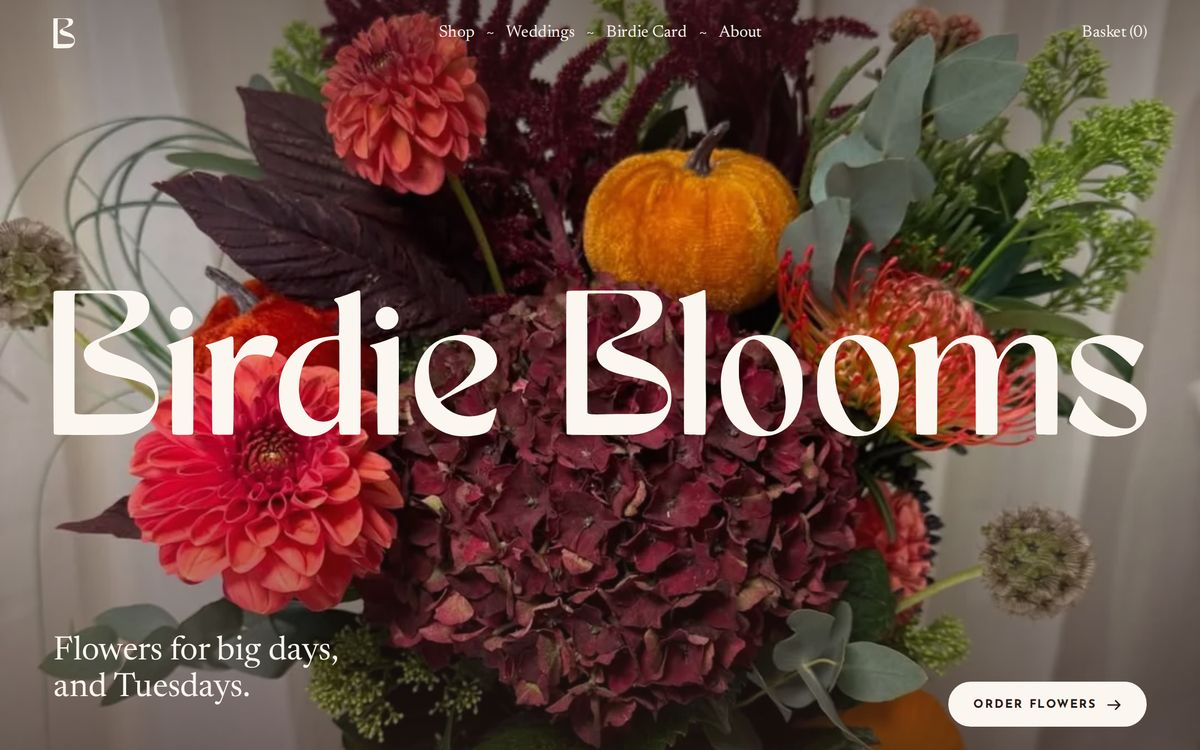
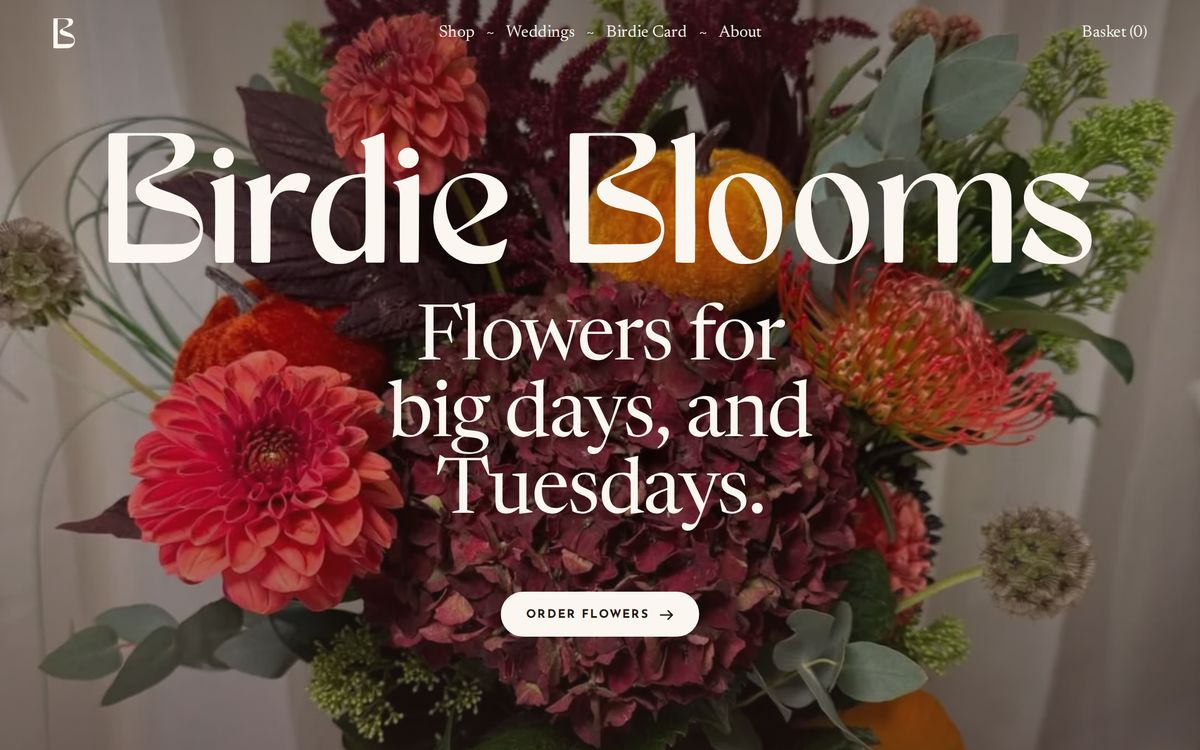
Studio: big centred strapline, promise band removed
'Flowers for big days, and Tuesdays.' now sits large and centred under the
logo with the order button below it. The dark promise band under the hero
is gone.

Claude-Session: https://claude.ai/code/session_019PSRfq3TQ4o54oty8jBXVF

diff --git a/directions/studio.html b/directions/studio.html
@@ -74,22 +74,17 @@
   .bar-basket { justify-self: end; text-decoration: none; font-size: 20px; }
 
   /* ---- hero: her flowers, her logo, big ------------------------------------------------ */
-  .hero { position: relative; isolation: isolate; height: 100vh; min-height: 620px; max-height: 1100px; overflow: hidden; color: var(--paper); }
+  .hero { position: relative; isolation: isolate; display: grid; grid-template-rows: auto 1fr; height: 100vh; min-height: 640px; max-height: 1100px; overflow: hidden; color: var(--paper); }
   .hero-img { position: absolute; inset: 0; width: 100%; height: 100%; object-fit: cover; object-position: 50% 42%; z-index: -2; }
-  .hero-shade { position: absolute; inset: 0; z-index: -1; background: linear-gradient(180deg, rgba(43, 26, 22, 0.42) 0%, rgba(43, 26, 22, 0.08) 30%, rgba(43, 26, 22, 0.1) 60%, rgba(43, 26, 22, 0.55) 100%); }
+  .hero-shade { position: absolute; inset: 0; z-index: -1; background: linear-gradient(180deg, rgba(43, 26, 22, 0.45) 0%, rgba(43, 26, 22, 0.25) 35%, rgba(43, 26, 22, 0.3) 65%, rgba(43, 26, 22, 0.5) 100%); }
   .hero-top { display: grid; grid-template-columns: 1fr auto 1fr; align-items: center; padding: 22px var(--gut); font-size: 20px; }
   .hero-top > a:last-child { justify-self: end; }
   .hero-b .mono { width: 26px; color: var(--paper); }
-  .hero-mark { position: absolute; left: var(--gut); right: var(--gut); top: 50%; transform: translateY(-58%); color: var(--paper); }
-  .hero-foot { position: absolute; left: var(--gut); right: var(--gut); bottom: clamp(28px, 4vw, 52px); display: flex; justify-content: space-between; align-items: end; gap: 20px; flex-wrap: wrap; }
-  .hero-line { font-size: clamp(26px, 2.8vw, 40px); line-height: 1.1; max-width: 16ch; }
-  html.m .hero-mark .wm, html.m .hero-line, html.m .hero-foot .btn, html.m .hero-top { visibility: hidden; }
+  .hero-center { display: flex; flex-direction: column; align-items: center; justify-content: center; gap: clamp(26px, 3.4vw, 46px); padding: 0 var(--gut) clamp(56px, 9vh, 110px); text-align: center; }
+  .hero-mark { width: min(1180px, 100%); color: var(--paper); }
+  .hero-line { max-width: 13ch; font-size: clamp(44px, 6.4vw, 100px); line-height: 1; letter-spacing: -0.02em; text-wrap: balance; text-shadow: 0 2px 30px rgba(43, 26, 22, 0.35); }
+  html.m .hero-mark .wm, html.m .hero-line, html.m .hero-center .btn, html.m .hero-top { visibility: hidden; }
 
-  /* ---- promise band ------------------------------------------------------------------- */
-  .promise { background: var(--ink); color: var(--paper); }
-  .promise ul { list-style: none; display: flex; justify-content: space-between; flex-wrap: wrap; gap: 14px 28px; margin: 0; padding: 20px var(--gut) 17px; }
-  .promise li { display: flex; align-items: center; gap: 12px; }
-  .promise .mono { width: 11px; color: var(--bloom); margin-top: -3px; }
 
   /* ---- solid colour blocks ---------------------------------------------------------- */
   .block-pastel { background: var(--pastel); }
@@ -222,8 +217,7 @@
     .bar-nav, .hero-top nav { display: none; }
     .bar-logo { width: 140px; }
     .hero-top { grid-template-columns: 1fr auto; }
-    .hero-mark { top: 46%; }
-    .promise ul { display: grid; grid-template-columns: 1fr 1fr; font-size: 11px; }
+    .hero-center { gap: 24px; }
     .two-cols, .products, .loyalty, .about, .letters, .foot-cols { grid-template-columns: 1fr; }
     .col-low { margin-top: 40px; }
     .collage { width: 78%; margin-top: 18px; }
@@ -257,21 +251,13 @@
     <nav aria-label="Primary"><a href="#shop">Shop</a><span>~</span><a href="#weddings">Weddings</a><span>~</span><a href="#card">Birdie Card</a><span>~</span><a href="#about">About</a></nav>
     <a href="#shop">Basket (<span data-count>0</span>)</a>
   </header>
-  <h1 class="hero-mark"><svg class="wm wm-hero" viewBox="7 8 6174 828" role="img" aria-label="Birdie Blooms"><path class="g" d="M 44,12.3 C 8.2,13.5 9,13 8.3,36 C 6.6,99.7 7.6,813.9 9.5,817.5 C 13.8,826 10.2,825.5 71.8,826.4 C 157.4,827.7 377.1,826.5 394.7,824.7 C 485.9,815.1 547.4,775.7 582,704.6 C 618.4,629.8 602.6,531.4 544.5,471.2 C 508.9,434.2 467.8,411.5 382.2,381.5 C 336.2,365.4 325.8,361.5 313.8,356.1 C 275.1,338.6 255.6,314.9 268.1,300.6 C 273.4,294.6 294,285.3 322.5,276.2 C 336.3,271.9 358.3,264.8 371.5,260.6 C 494.7,221.1 542,182.6 549,116 C 555.6,53.7 516.4,16.1 441,12.1 C 417.9,10.9 80.8,11.1 44,12.3 M 317.7,28.1 C 341.4,30 361.4,34.9 377.5,42.6 C 448.6,76.9 441.9,178.6 364.9,230.7 C 345.2,244.1 300,268.1 277.2,277.2 C 239,292.5 204.6,314.5 192.5,331.5 C 165.8,368.9 179.3,418.4 224.4,448.2 C 257.9,470.5 289.5,480.2 406.5,504.6 C 540.7,532.5 581.4,559 581.5,618.6 C 581.5,658.8 556.6,685.8 505.9,700.4 C 480.3,707.9 459.2,709.1 356,709.1 C 312.8,709.1 252.1,709.6 221,710.2 C 145.6,711.6 133.7,710.6 128.3,702.4 C 126.6,699.8 126.5,683.2 126.5,368.1 C 126.5,1.2 125.9,32.4 133,28.9 C 137.1,26.8 293.4,26.2 317.7,28.1"/><path class="g" d="M 769,275.6 C 750.2,284 731.4,290.9 690,304.7 C 645.3,319.5 642.3,321.4 651.6,329.4 C 667.2,342.7 671.3,351.5 675.6,381 C 677.9,396.6 678.9,577.7 677,638 C 675.6,683 677.1,807.1 679.1,814.5 C 682.2,825.8 684.3,826.2 738,826.2 C 791.7,826.2 793.8,825.7 796.9,814.5 C 798.5,808.7 798.4,285.7 796.9,279.4 C 794.1,268.4 787.3,267.5 769,275.6"/><path class="g" d="M 714.4,105 C 674.3,115.5 654.8,159.8 673.5,197.7 C 694.8,240.8 760.2,243.6 785.2,202.5 C 815.6,152.5 770.4,90.3 714.4,105"/><path class="g" d="M 1189,263.7 C 1123.8,270.7 1076,307.4 1041,377 C 1033.1,392.8 1030,396 1026.8,392 C 1025.1,389.9 1025,385.9 1025,336.8 C 1025,279.3 1024.8,276.7 1019.8,272.5 C 1015.3,268.7 1011,269.2 997.8,274.9 C 971.1,286.6 900.1,311 881.3,315 C 863.6,318.7 862,323.8 875.9,331.9 C 888.2,339.1 894.4,349.5 898.9,370.5 C 902.1,385.6 902.3,392.7 903,601 C 903.8,826.1 903.5,815.6 908.9,821.1 C 913.7,825.9 916.4,826.1 966.7,825.8 C 1018.4,825.5 1018.1,825.5 1021.5,819.1 C 1023.7,814.8 1025,749 1025.4,618.5 C 1025.8,494.9 1026.3,485.9 1034.5,457.5 C 1044.1,424.3 1068.6,394.2 1096.4,381.5 C 1125.4,368.2 1175.9,368.6 1216.5,382.5 C 1238.5,390.1 1239.9,389.5 1250.4,367.8 C 1276.8,313.5 1280.3,294.3 1266.1,280.1 C 1254.6,268.6 1217.3,260.6 1189,263.7"/><path class="g" d="M 1726.3,11 C 1724.6,11.4 1718.7,13.6 1713.3,15.8 C 1682,29 1625,49 1608.7,52.5 C 1590.8,56.4 1587.7,64.2 1600.3,73.9 C 1619.6,88.4 1622.3,104.9 1621.3,199.2 C 1620.5,274.1 1622.7,266 1602.9,267.2 C 1524.9,271.9 1460.6,289.5 1417,318.1 C 1307.6,389.6 1262.1,512.2 1287.6,666.9 C 1301.5,751.1 1351.8,815.3 1415,829.4 C 1486.4,845.3 1556.9,821.3 1600.3,766.5 C 1618.6,743.3 1619.8,744.4 1621.7,784.3 C 1623.2,816.9 1623.9,820.8 1629.3,823.8 C 1632.2,825.3 1637,825.5 1682.7,825.5 C 1739.4,825.5 1736.2,825.9 1740.5,817.4 C 1744.4,809.7 1743.7,23.5 1739.7,16.3 C 1737.1,11.5 1732.3,9.6 1726.3,11 M 1617.1,290.3 C 1622.8,294.1 1622.5,283.7 1622.5,478 C 1622.5,690.7 1622.6,687.4 1612,709.5 C 1586.5,762.6 1491.4,766.7 1446.7,716.7 C 1393.9,657.7 1380.4,572.4 1407.1,466.5 C 1428.4,382.1 1483.2,314.1 1544.5,296.2 C 1569.8,288.8 1610,285.5 1617.1,290.3"/><path class="g" d="M 1936.5,272.8 C 1907.9,286.3 1832.3,311.8 1812,314.9 C 1792,317.9 1789.6,324.9 1806.3,331.5 C 1819.8,336.9 1827.2,347 1832.3,367 C 1837,385.3 1837.5,395.4 1837.1,475.5 C 1836.1,677.9 1837,812.8 1839.4,818.4 C 1842.4,825.6 1841.4,825.5 1898,825.5 C 1953.7,825.5 1951.5,825.7 1955.7,819.3 C 1957.5,816.6 1959.2,288.9 1957.5,279.3 C 1955.8,270 1947.8,267.5 1936.5,272.8"/><path class="g" d="M 1882,104 C 1843.7,110 1820.1,144.1 1828.5,181.4 C 1841.6,240.5 1922.4,249.7 1949.9,195.3 C 1972.5,150.3 1932.2,96.1 1882,104"/><path class="g" d="M 2294,262.7 C 2149.6,276.1 2062.7,366.3 2049,517 C 2035.3,668.5 2118.9,792.5 2258.1,826.9 C 2313.2,840.5 2404.6,834.2 2449.4,813.5 C 2474.6,801.9 2481.8,788.8 2502.6,716.5 C 2515.2,672.4 2513.3,668.8 2485.7,685.3 C 2390.1,742.4 2281.2,732.2 2206.9,659 C 2187.2,639.6 2186.6,640.4 2241,610.7 C 2265.2,597.5 2372.2,543.7 2383.6,538.9 C 2438.2,516.2 2479,488.5 2497.1,461.8 C 2529,414.8 2511.4,347.1 2456.6,306.1 C 2416.1,275.8 2348,257.6 2294,262.7 M 2293.5,294 C 2349.9,306.1 2384.4,341.8 2390.2,394.1 C 2397.2,457.5 2341.1,524.4 2212,606.5 C 2179.6,627.1 2174.1,625 2155.5,585.6 C 2108.5,485.9 2121,360.5 2182.5,314.7 C 2210.7,293.7 2254.4,285.5 2293.5,294"/><path class="g" d="M 2940,12.2 C 2904.2,13.4 2905,12.9 2904.3,35.9 C 2902.6,99.6 2903.6,813.8 2905.5,817.4 C 2909.8,825.9 2906.2,825.4 2967.8,826.3 C 3053.4,827.6 3273.1,826.4 3290.7,824.6 C 3381.9,815 3443.4,775.6 3478,704.5 C 3514.4,629.7 3498.6,531.3 3440.5,471.1 C 3404.9,434.1 3363.8,411.4 3278.2,381.4 C 3232.2,365.3 3221.8,361.4 3209.8,356 C 3171.1,338.5 3151.6,314.8 3164.1,300.5 C 3169.4,294.5 3190,285.2 3218.5,276.1 C 3232.3,271.8 3254.3,264.7 3267.5,260.5 C 3390.7,221 3438,182.5 3445,115.9 C 3451.6,53.6 3412.4,16 3337,12 C 3313.9,10.8 2976.8,11 2940,12.2 M 3213.7,28 C 3237.4,29.9 3257.4,34.8 3273.5,42.5 C 3344.6,76.8 3337.9,178.5 3260.9,230.6 C 3241.2,244 3196,268 3173.2,277.1 C 3135,292.4 3100.6,314.4 3088.5,331.4 C 3061.8,368.8 3075.3,418.3 3120.4,448.1 C 3153.9,470.4 3185.5,480.1 3302.5,504.5 C 3436.7,532.4 3477.4,558.9 3477.5,618.5 C 3477.5,658.7 3452.6,685.7 3401.9,700.3 C 3376.3,707.8 3355.2,709 3252,709 C 3208.8,709 3148.1,709.5 3117,710.1 C 3041.6,711.5 3029.7,710.5 3024.3,702.3 C 3022.6,699.7 3022.5,683.1 3022.5,368 C 3022.5,1.1 3021.9,32.3 3029,28.8 C 3033.1,26.7 3189.4,26.1 3213.7,28"/><path class="g" d="M 3677.7,9.1 C 3675.7,9.6 3672.2,10.9 3670,12 C 3650.2,22.1 3574.4,49.1 3559,51.6 C 3537.9,55 3532.5,65.6 3547.8,73.8 C 3561.8,81.3 3564.5,88.6 3567.6,127.5 C 3569.7,153.5 3569.7,150.2 3568.7,521.5 C 3567.8,848.3 3567.2,818.2 3574.3,823.4 C 3577.2,825.5 3667.2,827.3 3679.8,825.5 C 3690.7,823.9 3690.3,826.2 3690.7,762.9 C 3690.8,731.9 3691.5,690.1 3692,670 C 3692.7,644.8 3692.8,619.2 3692,587.5 C 3690.7,527.9 3690.7,316.1 3692.1,231.5 C 3692.8,185.2 3692.8,154 3692,127 C 3691.4,105.8 3690.9,72.1 3690.8,52 C 3690.6,12 3690.5,11.1 3684.9,9.1 C 3683.1,8.5 3681.7,8 3681.6,8.1 C 3681.5,8.2 3679.8,8.6 3677.7,9.1"/><path class="g" d="M 3979,264.1 C 3934.1,270.8 3904.9,282.1 3875.5,303.9 C 3807.1,354.8 3773.3,441.3 3776.4,557.5 C 3780.1,699.5 3839.5,795.2 3943.2,826.5 C 3974.8,836.1 4031.7,836.4 4068.1,827.1 C 4156.7,804.7 4216.6,731.4 4234,624 C 4237.9,599.6 4239.4,537.1 4237,500.5 C 4230.6,407 4184.7,327.5 4114.5,288.6 C 4077.1,267.9 4021,257.7 3979,264.1 M 3981.7,290.5 C 4056.8,315.6 4125.2,452.7 4141.4,610.8 C 4148.8,682.6 4130.4,760.3 4099.1,789.2 C 4039.5,844.3 3953.5,771.1 3904.9,623.9 C 3892.9,587.6 3883.8,545.6 3879.8,508.5 C 3877.7,489.2 3878.1,417.1 3880.4,400.5 C 3891.5,319.1 3932.8,274.2 3981.7,290.5"/><path class="g" d="M 4530.5,263 C 4412.6,276.5 4341.4,349.9 4322.3,477.5 C 4320,493 4319.6,587.7 4321.8,607.5 C 4337.4,748.3 4424.3,834.1 4551.3,834 C 4654.4,833.9 4736.3,769.8 4766.5,665.5 C 4801.1,545.8 4778.7,407.8 4712.6,333.8 C 4669.7,285.7 4593,255.9 4530.5,263 M 4521.1,291 C 4592,314.9 4661,440.7 4678.7,578.5 C 4681.3,599 4681.3,679.6 4678.7,698 C 4661.1,821.4 4581.8,844.8 4508.7,748.3 C 4462.8,687.6 4426.8,585 4421,498.2 C 4413.7,388.5 4434.2,315.9 4478.3,294.7 C 4484.6,291.7 4487.4,290.8 4496.5,288.6 C 4500.8,287.6 4515,289 4521.1,291"/><path class="g" d="M 5511.5,264 C 5445.3,275.9 5396.5,311.6 5356,377.5 C 5340,403.6 5338.4,403.7 5334.8,379.8 C 5328.4,336.5 5306.3,299.9 5275.9,282 C 5252,267.9 5208.1,260.1 5177.5,264.5 C 5108.6,274.4 5057.9,309.2 5018.8,373.2 C 5015.7,378.3 5011.6,384.9 5009.8,387.7 C 5006.6,393 5003.6,395 5001.8,393.2 C 4999.6,391 4999.1,381.8 4998.5,332.5 C 4997.8,278.7 4997.5,275.3 4993.3,272.1 C 4989.2,268.8 4984.7,269.4 4972,275 C 4931.2,292.7 4874.3,311.5 4851,315.1 C 4835,317.5 4830.7,324.6 4842.2,329.5 C 4852.9,334 4855.7,335.7 4859.7,339.8 C 4866.7,347 4873.1,363 4876.1,380.9 C 4876.9,385.4 4877.3,427.4 4877.6,515 C 4878,692.4 4879.6,814 4881.4,818.5 C 4884.3,825.4 4883.7,825.3 4939,825.4 C 4993.5,825.5 4991.5,825.7 4995.7,819.4 C 4997.2,817 4997.5,804.2 4998.6,656.6 C 4999.6,527.5 5000.2,494.4 5001.4,485.4 C 5013.6,392.4 5069.4,317.2 5133.1,307.9 C 5173.7,302 5203.3,320 5210.9,355.5 C 5214.7,373.1 5214.9,383.5 5215.5,589.5 C 5215.8,700.6 5216.3,797.3 5216.6,804.5 C 5217.4,826.9 5213.4,825.4 5274.2,825.8 C 5339.9,826.2 5337,827.2 5338.2,803.3 C 5338.5,795.2 5338.9,731.6 5338.9,662 C 5339,541.7 5339.7,503.8 5342,482.8 C 5350.9,402 5403.4,325.2 5459.6,310.5 C 5501.2,299.7 5536.8,314.4 5547.4,346.8 C 5555.8,372.6 5556,377.9 5554.6,569 C 5553.4,726.8 5555.2,812.8 5559.7,818.8 C 5564.7,825.5 5563,825.3 5618.4,825.4 C 5673.7,825.5 5671.5,825.7 5675.7,819.3 C 5678.3,815.3 5679,426.1 5676.5,400.5 C 5668.6,321.2 5635.4,279.2 5569.3,264.9 C 5554.6,261.8 5526.4,261.3 5511.5,264"/><path class="g" d="M 5939,264.1 C 5901.1,268.6 5865.1,278 5841.1,289.6 C 5744.6,335.9 5725.9,452.7 5802.8,528.7 C 5836.3,561.8 5877.9,584.7 5981.3,627 C 6013.6,640.1 6020.9,643.4 6040.6,653.3 C 6098.7,682.6 6125.9,714.4 6121.2,747.5 C 6114.9,791.2 6066.5,802.1 5992,776.5 C 5927.3,754.2 5859,693.2 5816.2,619.3 C 5811.3,611 5808,608 5803.5,608 C 5796.9,608 5793.7,612.8 5784,637 C 5781.9,642.2 5778.3,650.5 5776,655.5 C 5773.7,660.4 5770.3,668.4 5768.4,673.2 C 5766.5,678 5762.7,687.2 5759.9,693.7 C 5740.5,738 5739.2,748.1 5751.2,759.6 C 5793,799.8 5853.8,826.9 5918,834.1 C 5933,835.8 5994.4,835.9 6010.2,834.2 C 6115.7,823.2 6178.2,771.1 6180.7,692 C 6182.2,643.5 6168.7,608.6 6135.6,575.4 C 6104.4,544.3 6075.3,528 5986,491.9 C 5921.5,465.9 5916,463.5 5895.2,453.4 C 5835.1,424.4 5805.5,387.3 5812,349.2 C 5816.7,321.3 5836.4,308.7 5875.5,308.6 C 5927,308.6 5978.6,332 6037,381.9 C 6057.8,399.6 6076.4,416.5 6087.7,427.7 C 6107.2,447 6104.1,450.3 6145.9,368.5 C 6169.8,321.8 6169.8,320 6144.3,306.4 C 6080,271.9 6004,256.2 5939,264.1"/></svg></h1>
-  <div class="hero-foot">
+  <div class="hero-center">
+    <h1 class="hero-mark"><svg class="wm wm-hero" viewBox="7 8 6174 828" role="img" aria-label="Birdie Blooms"><path class="g" d="M 44,12.3 C 8.2,13.5 9,13 8.3,36 C 6.6,99.7 7.6,813.9 9.5,817.5 C 13.8,826 10.2,825.5 71.8,826.4 C 157.4,827.7 377.1,826.5 394.7,824.7 C 485.9,815.1 547.4,775.7 582,704.6 C 618.4,629.8 602.6,531.4 544.5,471.2 C 508.9,434.2 467.8,411.5 382.2,381.5 C 336.2,365.4 325.8,361.5 313.8,356.1 C 275.1,338.6 255.6,314.9 268.1,300.6 C 273.4,294.6 294,285.3 322.5,276.2 C 336.3,271.9 358.3,264.8 371.5,260.6 C 494.7,221.1 542,182.6 549,116 C 555.6,53.7 516.4,16.1 441,12.1 C 417.9,10.9 80.8,11.1 44,12.3 M 317.7,28.1 C 341.4,30 361.4,34.9 377.5,42.6 C 448.6,76.9 441.9,178.6 364.9,230.7 C 345.2,244.1 300,268.1 277.2,277.2 C 239,292.5 204.6,314.5 192.5,331.5 C 165.8,368.9 179.3,418.4 224.4,448.2 C 257.9,470.5 289.5,480.2 406.5,504.6 C 540.7,532.5 581.4,559 581.5,618.6 C 581.5,658.8 556.6,685.8 505.9,700.4 C 480.3,707.9 459.2,709.1 356,709.1 C 312.8,709.1 252.1,709.6 221,710.2 C 145.6,711.6 133.7,710.6 128.3,702.4 C 126.6,699.8 126.5,683.2 126.5,368.1 C 126.5,1.2 125.9,32.4 133,28.9 C 137.1,26.8 293.4,26.2 317.7,28.1"/><path class="g" d="M 769,275.6 C 750.2,284 731.4,290.9 690,304.7 C 645.3,319.5 642.3,321.4 651.6,329.4 C 667.2,342.7 671.3,351.5 675.6,381 C 677.9,396.6 678.9,577.7 677,638 C 675.6,683 677.1,807.1 679.1,814.5 C 682.2,825.8 684.3,826.2 738,826.2 C 791.7,826.2 793.8,825.7 796.9,814.5 C 798.5,808.7 798.4,285.7 796.9,279.4 C 794.1,268.4 787.3,267.5 769,275.6"/><path class="g" d="M 714.4,105 C 674.3,115.5 654.8,159.8 673.5,197.7 C 694.8,240.8 760.2,243.6 785.2,202.5 C 815.6,152.5 770.4,90.3 714.4,105"/><path class="g" d="M 1189,263.7 C 1123.8,270.7 1076,307.4 1041,377 C 1033.1,392.8 1030,396 1026.8,392 C 1025.1,389.9 1025,385.9 1025,336.8 C 1025,279.3 1024.8,276.7 1019.8,272.5 C 1015.3,268.7 1011,269.2 997.8,274.9 C 971.1,286.6 900.1,311 881.3,315 C 863.6,318.7 862,323.8 875.9,331.9 C 888.2,339.1 894.4,349.5 898.9,370.5 C 902.1,385.6 902.3,392.7 903,601 C 903.8,826.1 903.5,815.6 908.9,821.1 C 913.7,825.9 916.4,826.1 966.7,825.8 C 1018.4,825.5 1018.1,825.5 1021.5,819.1 C 1023.7,814.8 1025,749 1025.4,618.5 C 1025.8,494.9 1026.3,485.9 1034.5,457.5 C 1044.1,424.3 1068.6,394.2 1096.4,381.5 C 1125.4,368.2 1175.9,368.6 1216.5,382.5 C 1238.5,390.1 1239.9,389.5 1250.4,367.8 C 1276.8,313.5 1280.3,294.3 1266.1,280.1 C 1254.6,268.6 1217.3,260.6 1189,263.7"/><path class="g" d="M 1726.3,11 C 1724.6,11.4 1718.7,13.6 1713.3,15.8 C 1682,29 1625,49 1608.7,52.5 C 1590.8,56.4 1587.7,64.2 1600.3,73.9 C 1619.6,88.4 1622.3,104.9 1621.3,199.2 C 1620.5,274.1 1622.7,266 1602.9,267.2 C 1524.9,271.9 1460.6,289.5 1417,318.1 C 1307.6,389.6 1262.1,512.2 1287.6,666.9 C 1301.5,751.1 1351.8,815.3 1415,829.4 C 1486.4,845.3 1556.9,821.3 1600.3,766.5 C 1618.6,743.3 1619.8,744.4 1621.7,784.3 C 1623.2,816.9 1623.9,820.8 1629.3,823.8 C 1632.2,825.3 1637,825.5 1682.7,825.5 C 1739.4,825.5 1736.2,825.9 1740.5,817.4 C 1744.4,809.7 1743.7,23.5 1739.7,16.3 C 1737.1,11.5 1732.3,9.6 1726.3,11 M 1617.1,290.3 C 1622.8,294.1 1622.5,283.7 1622.5,478 C 1622.5,690.7 1622.6,687.4 1612,709.5 C 1586.5,762.6 1491.4,766.7 1446.7,716.7 C 1393.9,657.7 1380.4,572.4 1407.1,466.5 C 1428.4,382.1 1483.2,314.1 1544.5,296.2 C 1569.8,288.8 1610,285.5 1617.1,290.3"/><path class="g" d="M 1936.5,272.8 C 1907.9,286.3 1832.3,311.8 1812,314.9 C 1792,317.9 1789.6,324.9 1806.3,331.5 C 1819.8,336.9 1827.2,347 1832.3,367 C 1837,385.3 1837.5,395.4 1837.1,475.5 C 1836.1,677.9 1837,812.8 1839.4,818.4 C 1842.4,825.6 1841.4,825.5 1898,825.5 C 1953.7,825.5 1951.5,825.7 1955.7,819.3 C 1957.5,816.6 1959.2,288.9 1957.5,279.3 C 1955.8,270 1947.8,267.5 1936.5,272.8"/><path class="g" d="M 1882,104 C 1843.7,110 1820.1,144.1 1828.5,181.4 C 1841.6,240.5 1922.4,249.7 1949.9,195.3 C 1972.5,150.3 1932.2,96.1 1882,104"/><path class="g" d="M 2294,262.7 C 2149.6,276.1 2062.7,366.3 2049,517 C 2035.3,668.5 2118.9,792.5 2258.1,826.9 C 2313.2,840.5 2404.6,834.2 2449.4,813.5 C 2474.6,801.9 2481.8,788.8 2502.6,716.5 C 2515.2,672.4 2513.3,668.8 2485.7,685.3 C 2390.1,742.4 2281.2,732.2 2206.9,659 C 2187.2,639.6 2186.6,640.4 2241,610.7 C 2265.2,597.5 2372.2,543.7 2383.6,538.9 C 2438.2,516.2 2479,488.5 2497.1,461.8 C 2529,414.8 2511.4,347.1 2456.6,306.1 C 2416.1,275.8 2348,257.6 2294,262.7 M 2293.5,294 C 2349.9,306.1 2384.4,341.8 2390.2,394.1 C 2397.2,457.5 2341.1,524.4 2212,606.5 C 2179.6,627.1 2174.1,625 2155.5,585.6 C 2108.5,485.9 2121,360.5 2182.5,314.7 C 2210.7,293.7 2254.4,285.5 2293.5,294"/><path class="g" d="M 2940,12.2 C 2904.2,13.4 2905,12.9 2904.3,35.9 C 2902.6,99.6 2903.6,813.8 2905.5,817.4 C 2909.8,825.9 2906.2,825.4 2967.8,826.3 C 3053.4,827.6 3273.1,826.4 3290.7,824.6 C 3381.9,815 3443.4,775.6 3478,704.5 C 3514.4,629.7 3498.6,531.3 3440.5,471.1 C 3404.9,434.1 3363.8,411.4 3278.2,381.4 C 3232.2,365.3 3221.8,361.4 3209.8,356 C 3171.1,338.5 3151.6,314.8 3164.1,300.5 C 3169.4,294.5 3190,285.2 3218.5,276.1 C 3232.3,271.8 3254.3,264.7 3267.5,260.5 C 3390.7,221 3438,182.5 3445,115.9 C 3451.6,53.6 3412.4,16 3337,12 C 3313.9,10.8 2976.8,11 2940,12.2 M 3213.7,28 C 3237.4,29.9 3257.4,34.8 3273.5,42.5 C 3344.6,76.8 3337.9,178.5 3260.9,230.6 C 3241.2,244 3196,268 3173.2,277.1 C 3135,292.4 3100.6,314.4 3088.5,331.4 C 3061.8,368.8 3075.3,418.3 3120.4,448.1 C 3153.9,470.4 3185.5,480.1 3302.5,504.5 C 3436.7,532.4 3477.4,558.9 3477.5,618.5 C 3477.5,658.7 3452.6,685.7 3401.9,700.3 C 3376.3,707.8 3355.2,709 3252,709 C 3208.8,709 3148.1,709.5 3117,710.1 C 3041.6,711.5 3029.7,710.5 3024.3,702.3 C 3022.6,699.7 3022.5,683.1 3022.5,368 C 3022.5,1.1 3021.9,32.3 3029,28.8 C 3033.1,26.7 3189.4,26.1 3213.7,28"/><path class="g" d="M 3677.7,9.1 C 3675.7,9.6 3672.2,10.9 3670,12 C 3650.2,22.1 3574.4,49.1 3559,51.6 C 3537.9,55 3532.5,65.6 3547.8,73.8 C 3561.8,81.3 3564.5,88.6 3567.6,127.5 C 3569.7,153.5 3569.7,150.2 3568.7,521.5 C 3567.8,848.3 3567.2,818.2 3574.3,823.4 C 3577.2,825.5 3667.2,827.3 3679.8,825.5 C 3690.7,823.9 3690.3,826.2 3690.7,762.9 C 3690.8,731.9 3691.5,690.1 3692,670 C 3692.7,644.8 3692.8,619.2 3692,587.5 C 3690.7,527.9 3690.7,316.1 3692.1,231.5 C 3692.8,185.2 3692.8,154 3692,127 C 3691.4,105.8 3690.9,72.1 3690.8,52 C 3690.6,12 3690.5,11.1 3684.9,9.1 C 3683.1,8.5 3681.7,8 3681.6,8.1 C 3681.5,8.2 3679.8,8.6 3677.7,9.1"/><path class="g" d="M 3979,264.1 C 3934.1,270.8 3904.9,282.1 3875.5,303.9 C 3807.1,354.8 3773.3,441.3 3776.4,557.5 C 3780.1,699.5 3839.5,795.2 3943.2,826.5 C 3974.8,836.1 4031.7,836.4 4068.1,827.1 C 4156.7,804.7 4216.6,731.4 4234,624 C 4237.9,599.6 4239.4,537.1 4237,500.5 C 4230.6,407 4184.7,327.5 4114.5,288.6 C 4077.1,267.9 4021,257.7 3979,264.1 M 3981.7,290.5 C 4056.8,315.6 4125.2,452.7 4141.4,610.8 C 4148.8,682.6 4130.4,760.3 4099.1,789.2 C 4039.5,844.3 3953.5,771.1 3904.9,623.9 C 3892.9,587.6 3883.8,545.6 3879.8,508.5 C 3877.7,489.2 3878.1,417.1 3880.4,400.5 C 3891.5,319.1 3932.8,274.2 3981.7,290.5"/><path class="g" d="M 4530.5,263 C 4412.6,276.5 4341.4,349.9 4322.3,477.5 C 4320,493 4319.6,587.7 4321.8,607.5 C 4337.4,748.3 4424.3,834.1 4551.3,834 C 4654.4,833.9 4736.3,769.8 4766.5,665.5 C 4801.1,545.8 4778.7,407.8 4712.6,333.8 C 4669.7,285.7 4593,255.9 4530.5,263 M 4521.1,291 C 4592,314.9 4661,440.7 4678.7,578.5 C 4681.3,599 4681.3,679.6 4678.7,698 C 4661.1,821.4 4581.8,844.8 4508.7,748.3 C 4462.8,687.6 4426.8,585 4421,498.2 C 4413.7,388.5 4434.2,315.9 4478.3,294.7 C 4484.6,291.7 4487.4,290.8 4496.5,288.6 C 4500.8,287.6 4515,289 4521.1,291"/><path class="g" d="M 5511.5,264 C 5445.3,275.9 5396.5,311.6 5356,377.5 C 5340,403.6 5338.4,403.7 5334.8,379.8 C 5328.4,336.5 5306.3,299.9 5275.9,282 C 5252,267.9 5208.1,260.1 5177.5,264.5 C 5108.6,274.4 5057.9,309.2 5018.8,373.2 C 5015.7,378.3 5011.6,384.9 5009.8,387.7 C 5006.6,393 5003.6,395 5001.8,393.2 C 4999.6,391 4999.1,381.8 4998.5,332.5 C 4997.8,278.7 4997.5,275.3 4993.3,272.1 C 4989.2,268.8 4984.7,269.4 4972,275 C 4931.2,292.7 4874.3,311.5 4851,315.1 C 4835,317.5 4830.7,324.6 4842.2,329.5 C 4852.9,334 4855.7,335.7 4859.7,339.8 C 4866.7,347 4873.1,363 4876.1,380.9 C 4876.9,385.4 4877.3,427.4 4877.6,515 C 4878,692.4 4879.6,814 4881.4,818.5 C 4884.3,825.4 4883.7,825.3 4939,825.4 C 4993.5,825.5 4991.5,825.7 4995.7,819.4 C 4997.2,817 4997.5,804.2 4998.6,656.6 C 4999.6,527.5 5000.2,494.4 5001.4,485.4 C 5013.6,392.4 5069.4,317.2 5133.1,307.9 C 5173.7,302 5203.3,320 5210.9,355.5 C 5214.7,373.1 5214.9,383.5 5215.5,589.5 C 5215.8,700.6 5216.3,797.3 5216.6,804.5 C 5217.4,826.9 5213.4,825.4 5274.2,825.8 C 5339.9,826.2 5337,827.2 5338.2,803.3 C 5338.5,795.2 5338.9,731.6 5338.9,662 C 5339,541.7 5339.7,503.8 5342,482.8 C 5350.9,402 5403.4,325.2 5459.6,310.5 C 5501.2,299.7 5536.8,314.4 5547.4,346.8 C 5555.8,372.6 5556,377.9 5554.6,569 C 5553.4,726.8 5555.2,812.8 5559.7,818.8 C 5564.7,825.5 5563,825.3 5618.4,825.4 C 5673.7,825.5 5671.5,825.7 5675.7,819.3 C 5678.3,815.3 5679,426.1 5676.5,400.5 C 5668.6,321.2 5635.4,279.2 5569.3,264.9 C 5554.6,261.8 5526.4,261.3 5511.5,264"/><path class="g" d="M 5939,264.1 C 5901.1,268.6 5865.1,278 5841.1,289.6 C 5744.6,335.9 5725.9,452.7 5802.8,528.7 C 5836.3,561.8 5877.9,584.7 5981.3,627 C 6013.6,640.1 6020.9,643.4 6040.6,653.3 C 6098.7,682.6 6125.9,714.4 6121.2,747.5 C 6114.9,791.2 6066.5,802.1 5992,776.5 C 5927.3,754.2 5859,693.2 5816.2,619.3 C 5811.3,611 5808,608 5803.5,608 C 5796.9,608 5793.7,612.8 5784,637 C 5781.9,642.2 5778.3,650.5 5776,655.5 C 5773.7,660.4 5770.3,668.4 5768.4,673.2 C 5766.5,678 5762.7,687.2 5759.9,693.7 C 5740.5,738 5739.2,748.1 5751.2,759.6 C 5793,799.8 5853.8,826.9 5918,834.1 C 5933,835.8 5994.4,835.9 6010.2,834.2 C 6115.7,823.2 6178.2,771.1 6180.7,692 C 6182.2,643.5 6168.7,608.6 6135.6,575.4 C 6104.4,544.3 6075.3,528 5986,491.9 C 5921.5,465.9 5916,463.5 5895.2,453.4 C 5835.1,424.4 5805.5,387.3 5812,349.2 C 5816.7,321.3 5836.4,308.7 5875.5,308.6 C 5927,308.6 5978.6,332 6037,381.9 C 6057.8,399.6 6076.4,416.5 6087.7,427.7 C 6107.2,447 6104.1,450.3 6145.9,368.5 C 6169.8,321.8 6169.8,320 6144.3,306.4 C 6080,271.9 6004,256.2 5939,264.1"/></svg></h1>
     <p class="hero-line">Flowers for big days, and Tuesdays.</p>
     <a class="btn btn-light" href="#shop">Order flowers <svg class="arr" viewBox="0 0 16 16" fill="none" stroke="currentColor" stroke-width="1.6" stroke-linecap="round" stroke-linejoin="round" aria-hidden="true"><path d="M1.5 8h12.5M9.5 3.5 14 8l-4.5 4.5"/></svg></a>
   </div>
 </section>
 
-<section class="promise" aria-label="The Birdie Blooms promise">
-  <ul class="label">
-    <li><i class="mark mono"></i>Hand-delivered by me</li>
-    <li><i class="mark mono"></i>Order by 11am for same day</li>
-    <li><i class="mark mono"></i>Tuesday to Saturday</li>
-    <li><i class="mark mono"></i>No floral foam, ever</li>
-  </ul>
-</section>
 
 <main>
   <section class="intro block-pastel">
@@ -492,14 +478,14 @@
   gsap.registerPlugin(ScrollTrigger, DrawSVGPlugin);
 
   // hero: the photo settles, the logo rises letter by letter
-  gsap.set([".hero-mark .wm", ".hero-line", ".hero-foot .btn", ".hero-top"], { visibility: "visible" });
+  gsap.set([".hero-mark .wm", ".hero-line", ".hero-center .btn", ".hero-top"], { visibility: "visible" });
   r.classList.remove("m");
   gsap.timeline({ defaults: { ease: "power4.out" } })
     .from(".hero-img", { scale: 1.12, duration: 2.2, ease: "power3.out" }, 0)
     .from(".hero-mark .g", { yPercent: 108, duration: 1.3, stagger: 0.05 }, 0.25)
     .from(".hero-top > *", { y: -16, autoAlpha: 0, duration: 0.8, stagger: 0.08 }, 0.7)
-    .from([".hero-line", ".hero-foot .btn"], { y: 24, autoAlpha: 0, duration: 1, stagger: 0.1 }, 0.9)
-    .from(".promise li", { y: 12, autoAlpha: 0, duration: 0.7, stagger: 0.08 }, 1.1);
+    .from(".hero-line", { y: 40, autoAlpha: 0, duration: 1.2 }, 0.75)
+    .from(".hero-center .btn", { y: 24, autoAlpha: 0, duration: 1 }, 1.05);
 
   // the hero image drifts as you scroll away
   gsap.to(".hero-img", { yPercent: 12, ease: "none", scrollTrigger: { trigger: ".hero", start: "top top", end: "bottom top", scrub: true } });
